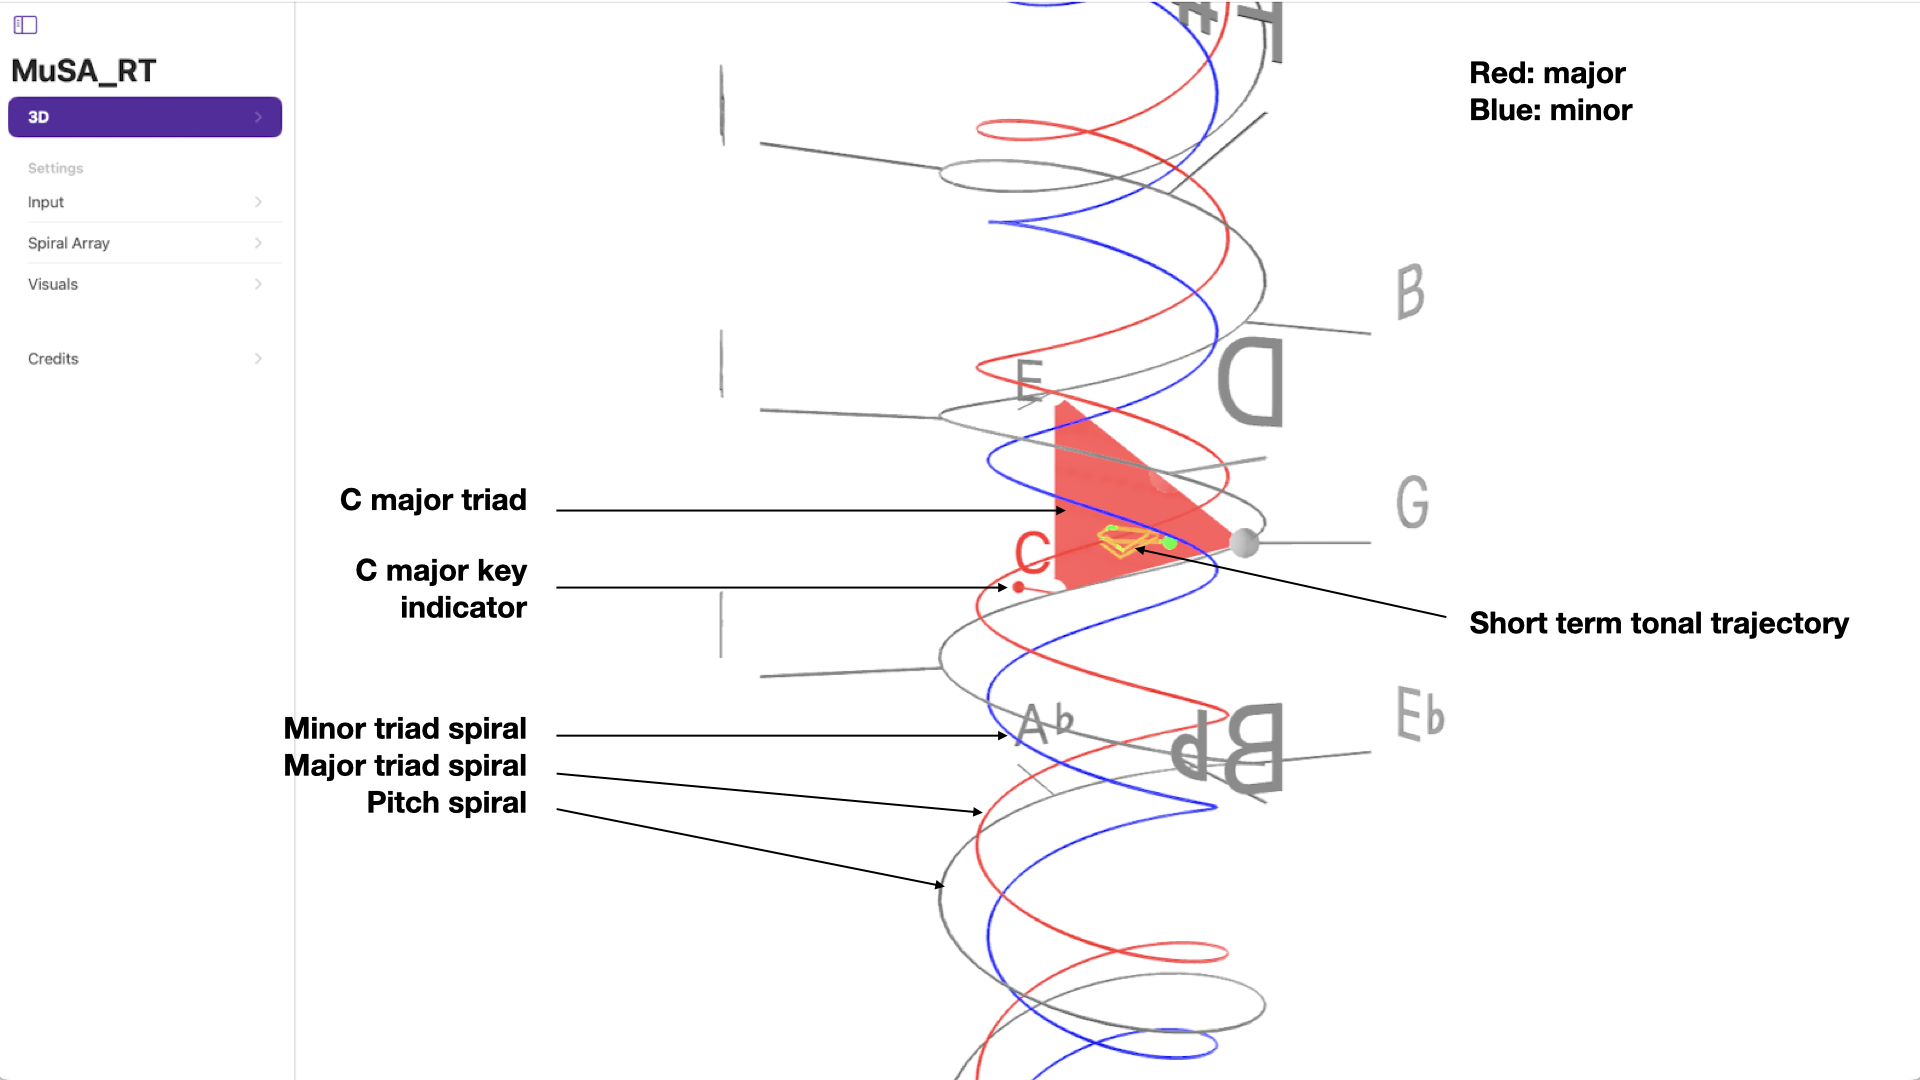
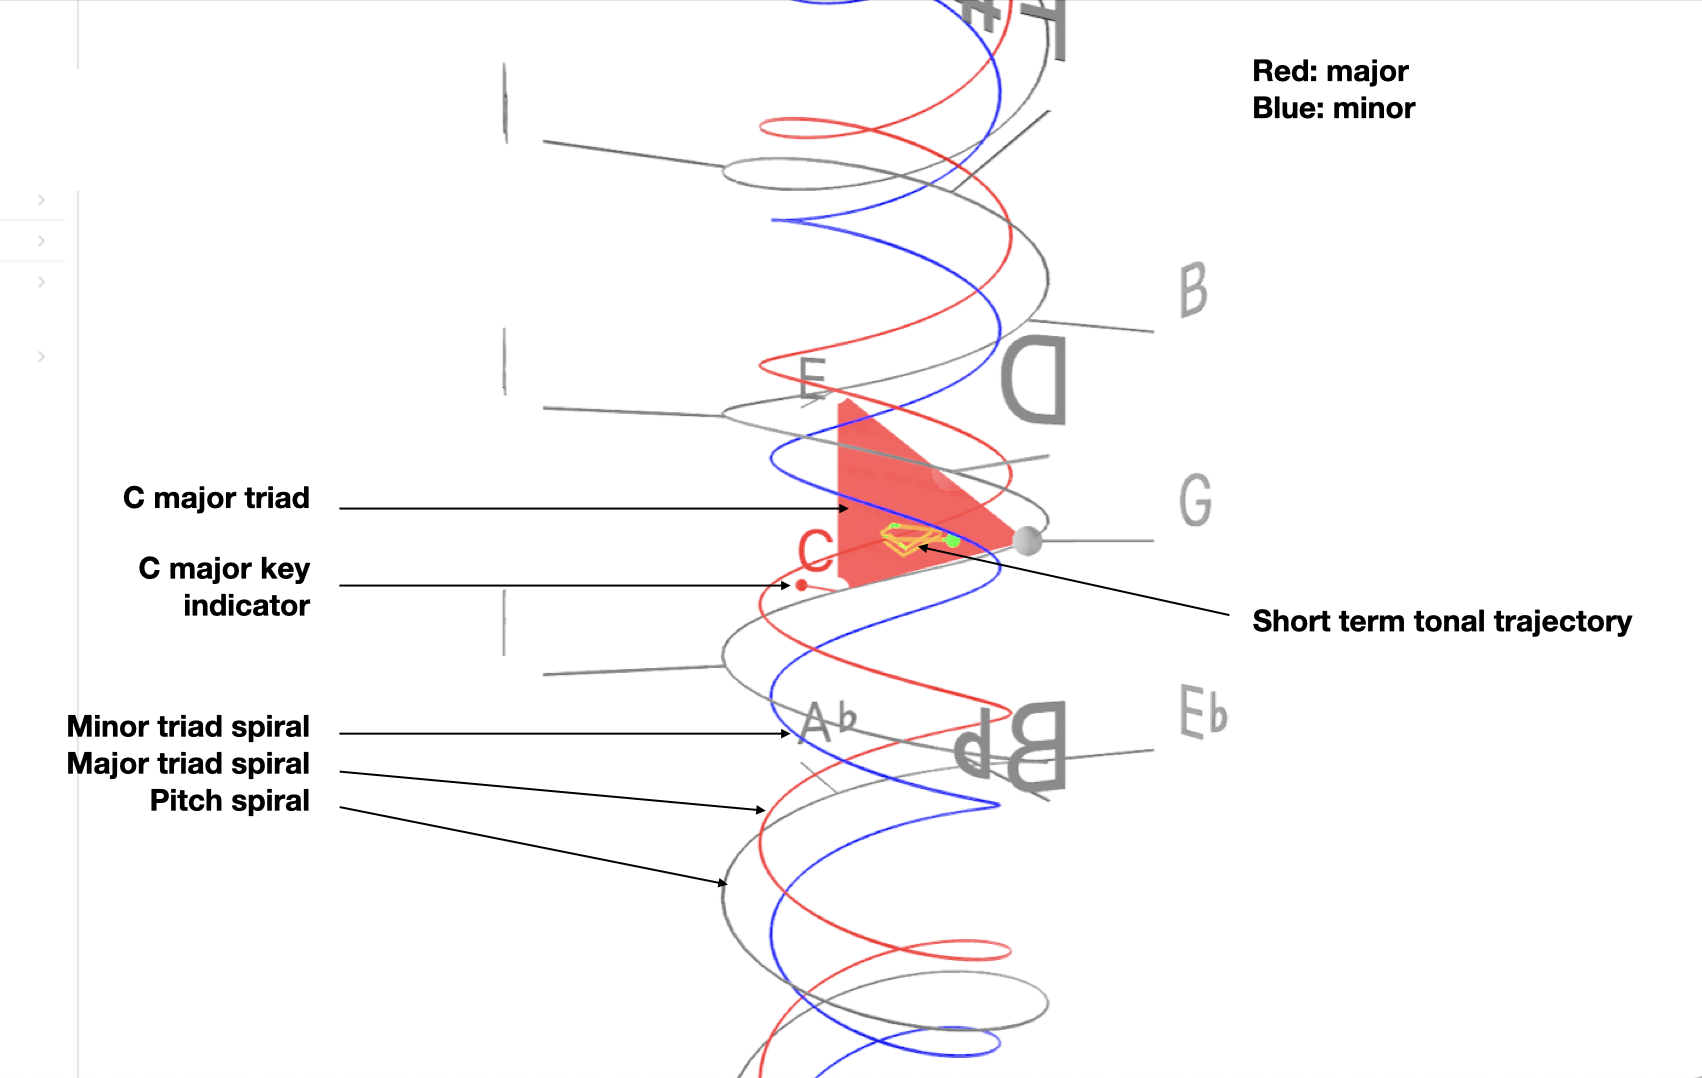
Update MuSA_RT page and screenshots

diff --git a/MuSA_RT/index.md b/MuSA_RT/index.md
@@ -3,7 +3,6 @@ title: MuSA_RT
 description: by Alexandre R.J. François
 ---
 
-
 <table align="left" cellpadding="0" cellspacing="0" style="margin-left: auto; margin-right: auto; text-align: left;"><tr><td>
 
 <img src="assets/images/square.png" alt="MuSA_RT" width="160" style="margin-bottom: 10px;"/>
@@ -19,15 +18,17 @@ MuSA_RT animates a visual representation of tonal patterns - pitches, chords, ke
 
 MuSA_RT applies music analysis algorithms rooted in [Elaine Chew](https://en.wikipedia.org/wiki/Elaine_Chew)'s [Spiral Array model of tonality](https://en.wikipedia.org/wiki/Spiral_array_model), which also provides the 3D geometry for the visualization space.
 The app analyzes the audio signal received from a microphone to determine pitch names, maintain short term and longterm tonal context trackers, each a Center of Effect (CE), and compute the closest triads (3-note chords) and keys as the music unfolds in performance.  
-The 3D view presents a graphical representations of these tonal entities in context, smoothly rotating the virtual camera to provide an unobstructed view of the current information. These graphics can also be visualized in an experimental Augmented Reality on compatible devices.
+The 3D view presents a graphical representations of these tonal entities in context, smoothly rotating the virtual camera to provide an unobstructed view of the current information. These graphics can also be visualized in an experimental Augmented Reality mode on compatible devices.
 
 <div style="text-align: left;">
 <iframe width="560" height="315" src="https://www.youtube.com/embed/I3Ytz6oTPgs?si=nand1MMXGpkJZnsb" title="MuSA_RT video" frameborder="0" allow="accelerometer; autoplay; clipboard-write; encrypted-media; gyroscope; picture-in-picture; web-share" referrerpolicy="strict-origin-when-cross-origin" allowfullscreen></iframe>
 </div>
 
-## User Guide (v. 3.0)
+&nbsp;
 
-<img src="assets/images/menu.png" alt="MuSA_RT menu" width="200"/>
+## User Guide (v. 3.1)
+
+<img src="assets/images/hero.png" alt="MuSA_RT 3D" width="560"/>
 
 1. Start the app and give the app access permission to the microphone when prompted
 2. Tap on "3D" to navigate to the live 3D visualization screen.
@@ -37,7 +38,7 @@ To try out the Augmented Reality mode, tap on "AR" (available only if the device
 
 Note: MuSA_RT requires a microphone or some audio input device in order to function in Audio mode, or a MIDI input device to function in MIDI mode. MuSA_RT does not generate sound.
 
-### Visualization: Spiral Array
+### Spiral Array
 
 The Spiral Array Model is a geometric model of tonality invented by Elaine Chew.
 
@@ -45,9 +46,62 @@ Pitch, triads and keys correspond to locations in the 3D space contained inside 
 
 <img src="assets/images/3D-spiral-array.png" alt="Spiral Array model of tonality" width="100%"/>
 
-### Settings: Visuals
+### Input
+
+Select and configure **FFT** (live audio), **FFT from file**, **MIDI** or **Remote** input.
+
+#### FFT
+
+[<img src="assets/images/input-fft.png" alt="FFT (audio) input" width="200" style="border: 2px solid grey;"/>](assets/images/input-fft.png)
+
+Select an audio input device from the dropdown list.  
+Visualize activation levels for pitch classes.
+
+#### FFT from file
+
+[<img src="assets/images/input-fft-from-file-pick.png" alt="FFT (audio) input from file: pick file" width="200" style="border: 2px solid grey;"/>](assets/images/input-fft-from-file-pick.png)
+[<img src="assets/images/input-fft-from-file-play.png" alt="FFT (audio) input from file: play" width="200" style="border: 2px solid grey;"/>](assets/images/input-fft-from-file-play.png)
+[<img src="assets/images/input-fft-from-file-playing.png" alt="FFT (audio) input from file: playing" width="200" style="border: 2px solid grey;"/>](assets/images/input-fft-from-file-playing.png)
+
+Tap on the note icon to open a file picker and select an audio file for input.  
+When the file is ready use the play, pause and stop buttons to control playback.  
+Tap the note icon to select another file.
+
+#### MIDI
+
+[<img src="assets/images/input-midi.png" alt="MIDI input" width="200" style="border: 2px solid grey;"/>](assets/images/input-midi.png)
+
+[<img src="assets/images/input-midi-scan.png" alt="MIDI input: scan" width="200" style="border: 2px solid grey;"/>](assets/images/input-midi-scan.png)
+[<img src="assets/images/midi-bt-not-connected.png" alt="MIDI input: BT device not connected" width="200" style="border: 2px solid grey;"/>](assets/images/midi-bt-not-connected.png)
+[<img src="assets/images/input-midi-connected.png" alt="MIDI input: BT device connected" width="200" style="border: 2px solid grey;"/>](assets/images/input-midi-connected.png)
+
+View connected MIDI devices. To connect to a Bluetooth MIDI device, tap the antenna button. Set the Bluetooth device in pairing mode. When the device appears in the list, tap the "Not Connected" label to connect.
+
+For input activation modeling, choose whether to use sustain pedal signal, and whether to apply an activation decay.
+The time constant determines how fast the activation decays (the larger the time constant, the slower the decay).
+
+**Sampling rate**: the frequency of sampling MIDI state for tonality analysis. Reducing the sampling rate reduces the computing load.
+
+**Decay sampling rate**: the frequency of update for decaying activation; only affects smoothness of decay, does not affect the dynamics set via the time constant.
+
+#### Remote
+
+Connect to a [MuSA_RT streaming server](#streaming) to render the results of the analysis performed remotely. Server and receiving devices must be connected to the same local WiFi network.
+
+[<img src="assets/images/input-remote-not-connected.png" alt="Remote input: scan QR code" width="200" style="border: 2px solid grey;"/>](assets/images/input-remote-not-connected.png)
+[<img src="assets/images/input-remote-connected.png" alt="Remote input: connected" width="200" style="border: 2px solid grey;"/>](assets/images/input-remote-connected.png)
+[<img src="assets/images/input-remote-disconnected.png" alt="Remote input: disconnected" width="200" style="border: 2px solid grey;"/>](assets/images/input-remote-disconnected.png)
+
+Tap the QR code icon to scan the QR code on the [Streaming](#streaming) screen on the serving device to connect directly.  
+Alternately, enter the server URL manually and tap the antenna to connect.  
+When connected, tap the antenna again to disconnect.
+
+### Visuals Settings
+
+[<img src="assets/images/settings-visuals.png" alt="Visuals settings" width="200" style="border: 2px solid grey;"/>](assets/images/settings-visuals.png)
 
 #### Pitch / Triad / Key
+
 Select and configure the objects presented in the 3D visualization: pitches, triads, key and associated Center of Effects (CEs).
 
 #### Orientation
@@ -58,45 +112,37 @@ Select and configure the objects presented in the 3D visualization: pitches, tri
 
 **Adjust height**: when enabled, the Spiral Array smoothly moves vertically so the active triad remains centered at a reference height, and remains vertically centered in the 3D view.
 
-The **movement** time constant determines how fast the motion occurs (the higher the time constant, the slower the motion)
+The **movement** time constant determines how fast the motion occurs (the larger the time constant, the slower the motion)
 
 #### Background
 
 Select **dark/light/auto** background mode.
 
-### Settings: Spiral Array
+### Spiral Array Settings
+
+[<img src="assets/images/settings-spiral-array.png" alt="Spiral Array settings" width="200" style="border: 2px solid grey;"/>](assets/images/settings-spiral-array.png)
 
 Adjust the parameters of the tonal analysis model.
 
 **Activation threshold**: ignore activation values that are below the threshold (noise)
 
-**Time constants for CE computations**: lower values make the object more responsive, higher values make the objects more stable. **Adapt** affects how the object reacts to signal, **decay** affects how quickly the object fades away in the absence of signal.
-
+**Time constants for CE computations**: lower values make the object more responsive, higher values make the objects more stable. **Adapt** affects how the object reacts to signal, **decay** affects how quickly the object fades away in the absence of signal.  
 For example, to make active triad tracking more responsive, decrease the time constant value for Triad CE Adapt.
 
-### Settings: Input
+### Streaming
 
-<img src="assets/images/inputFFT.png" alt="FFT (audio) input" width="200"/>
-<img src="assets/images/inputMIDI.png" alt="MIDI input" width="200"/>
+Stream local analysis results to connected MuSA_RT instances in remote input mode.
+Server and clients must be connected to the same local WiFi network.
 
-Select and configure **FFT** (audio) or **MIDI** input, visualize activation levels for pitch classes
+[<img src="assets/images/streaming-not-started.png" alt="Streaming: start server" width="200" style="border: 2px solid grey;"/>](assets/images/streaming-not-started.png)
+[<img src="assets/images/streaming-started.png" alt="Streaming" width="200" style="border: 2px solid grey;"/>](assets/images/streaming-started.png)
 
-#### FFT
+Start server. The screen shows the URL for the server, the number of connected clients.
 
-Select an audio input device from the dropdown list.
+Disable local rendering if not needed to reduce computation load on the serving device.  
+Enable streaming instant center of effect data if desired. This is a high frequency event that is only needed if the clients opt to display the instant CE.
 
-#### MIDI
-
-View connected MIDI devices. To connect to a Bluetooth MIDI device, tap the antenna button. Set the Bluetooth device in pairing mode. When the device appears in the list, tap Connect.
-
-<img src="assets/images/inputMIDI-bluetooth-scan.png" alt="Tap the antenna button to initiate Bluetooth scan" width="100"/>
-<img src="assets/images/MIDI-bluetooth-scanning.png" alt="Searching for Bluetooth LE devices" width="100"/>
-<img src="assets/images/MIDI-bluetooth-not-connected.png" alt="Device not connected" width="100"/>
-<img src="assets/images/MIDI-bluetooth-connected.png" alt="Device connected" width="100"/>
-<img src="assets/images/inputMIDI-connected.png" alt="Bluetooth MIDI input" width="100"/>
-
-For input activation modeling, choose whether to use sustain pedal signal, and whether to apply an activation decay.
-The time constant determines how fast the activation decays (the higher the time constant, the slower the decay).
+Scan the QR code on a client device in [remote input mode](#remote) to connect directly.
 
 ## Privacy Policy
 
@@ -105,11 +151,14 @@ The MuSA_RT app does not collect or share your personal information.
 ## Credits
 
 MuSA_RT Copyright 2012-2024 Alexandre R. J. François.
- 
+
 MuSA_RT 1.0, released in 2012, was originally commissioned by Elaine Chew's [MuCoaCo Lab](http://mucoaco.blogspot.com) as part of the [Music on the Spiral Array . Real Time](http://musa-rt.blogspot.com) (MuSA.RT) project, and as companion software to her Springer ORMS Series book [Mathematical and Computational Modeling of Tonality: Theory and Applications (2014)](https://link.springer.com/book/10.1007/978-1-4614-9475-1).
 
 Watch [Elaine Chew talk about using mathematical and software tools to analyze music](https://www.youtube.com/watch?v=4GPwVNPuKuA).
 
-### Audio input
+### Libraries
 
-MuSA_RT gratefully uses [AudioKit v5](https://github.com/AudioKit/AudioKit) for audio and MIDI input and for low level audio processing (FFT).
+MuSA_RT gratefully uses the following libraries:
+
+- [AudioKit v5](https://github.com/AudioKit/AudioKit) for audio and MIDI input and for low level audio processing (FFT)
+- [CodeScanner](https://github.com/twostraws/CodeScanner) for QR code scanning
